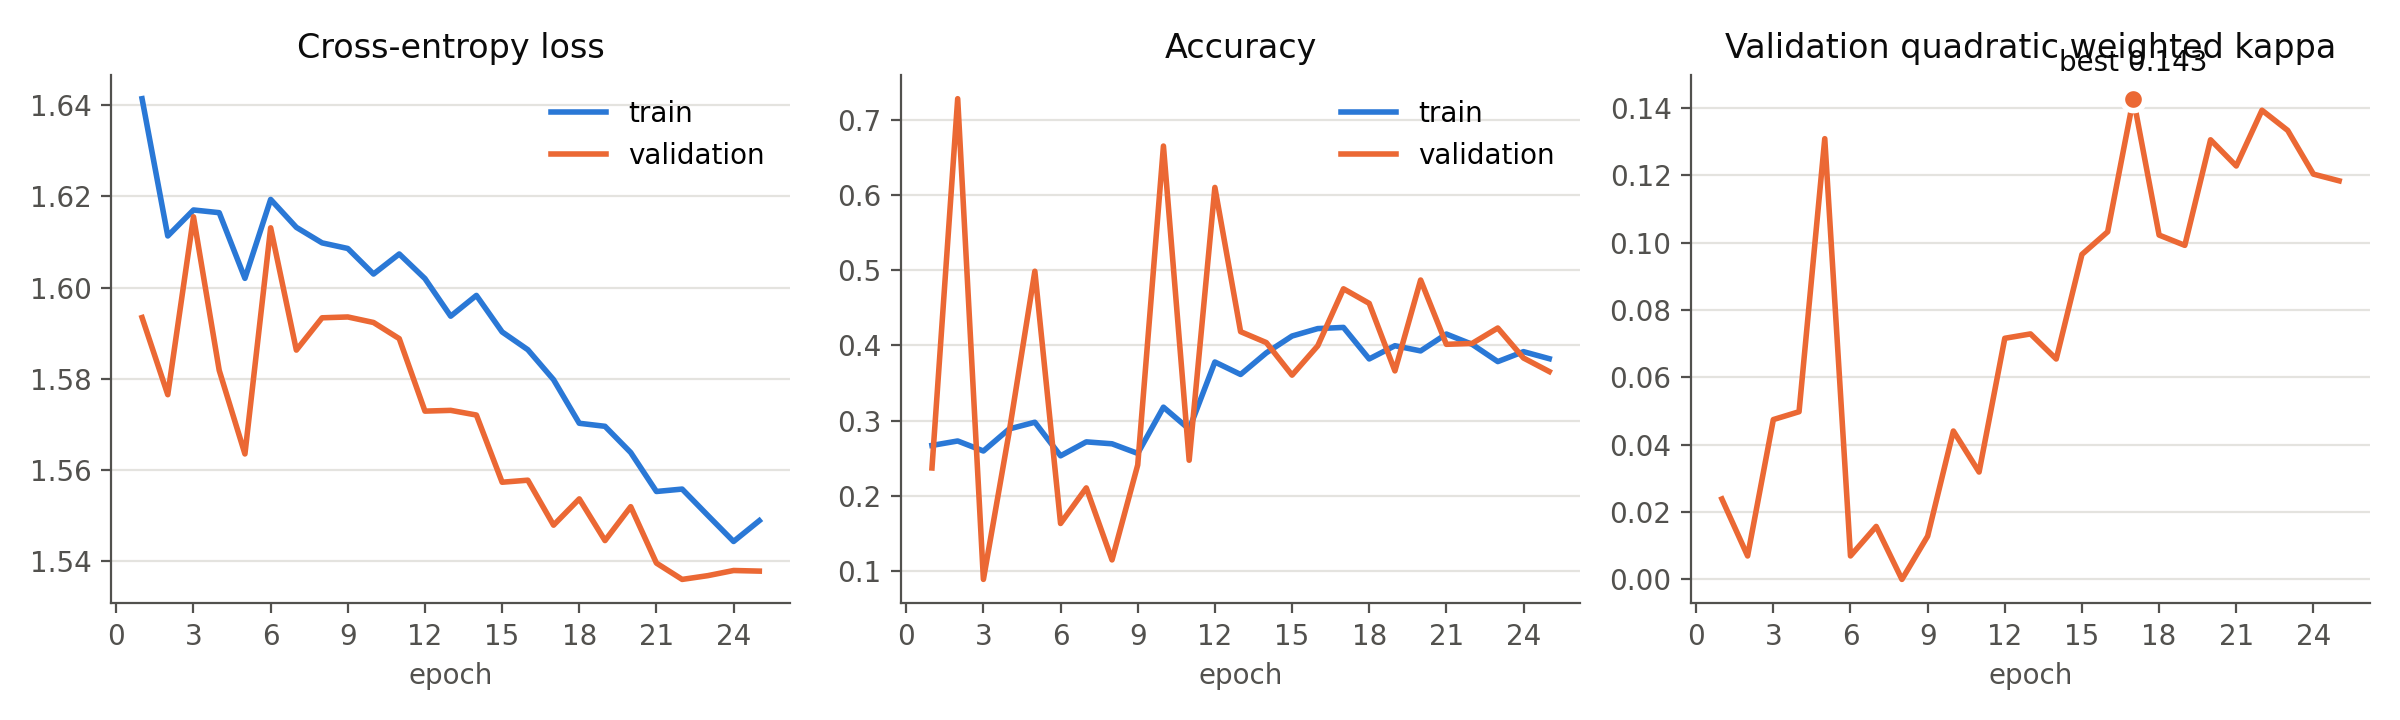
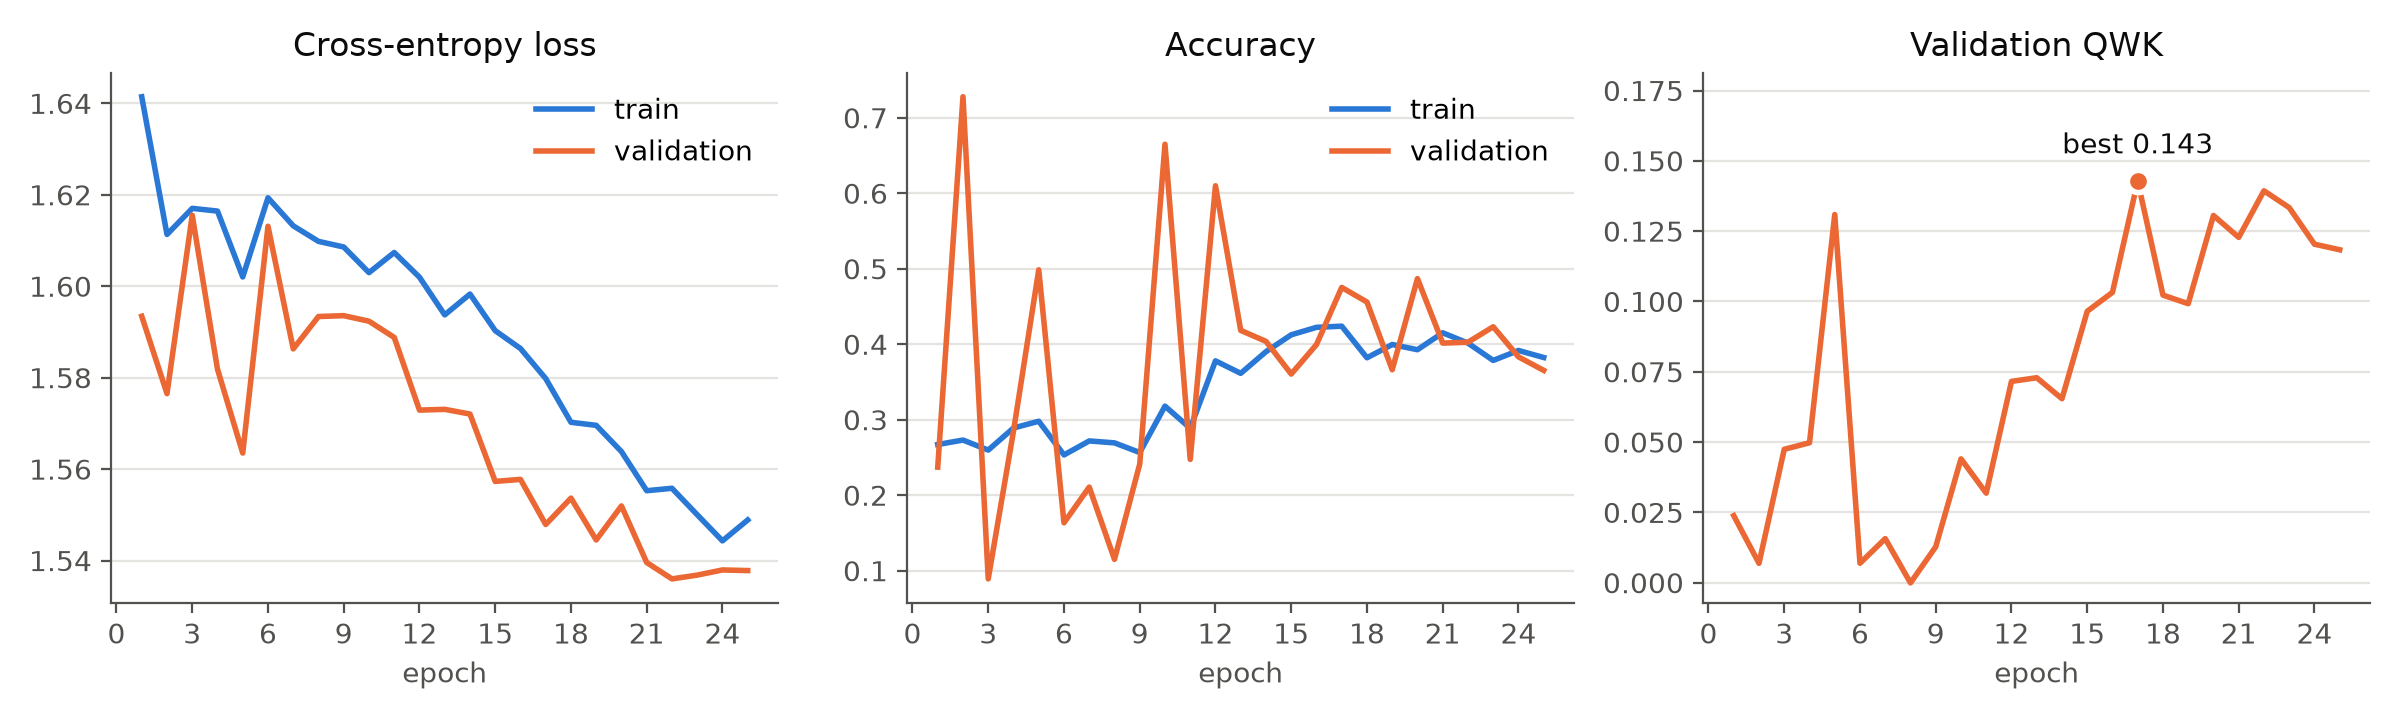
Fix figure placement and QWK plot label

diff --git a/report/main.tex b/report/main.tex
@@ -22,6 +22,7 @@
 \usepackage{algpseudocode}
 \usepackage[numbers]{natbib}
 \usepackage{xcolor}
+\usepackage[section]{placeins}  % keep figures inside their own section
 \usepackage[hidelinks]{hyperref}
 
 \graphicspath{{figures/}}
@@ -423,7 +424,7 @@ The checkpoint with the best validation QWK (epoch~17, QWK 0.143) is evaluated o
 on the EyePACS test split and on Messidor-2. All numbers are also stored in
 \texttt{results/results.json}.
 
-\begin{table}[h]
+\begin{table}[!htbp]
 \centering
 \caption{Results on the held-out EyePACS test split (in-domain) and on Messidor-2
 (external, never seen in training).}
@@ -442,7 +443,7 @@ Macro F1         & 0.212 & 0.184 \\
 \end{tabular}
 \end{table}
 
-\begin{table}[h]
+\begin{table}[!htbp]
 \centering
 \caption{Per-grade recall (share of each true grade that was predicted correctly).}
 \label{tab:recall}
@@ -459,7 +460,7 @@ Grade & EyePACS test & Messidor-2 \\
 \end{tabular}
 \end{table}
 
-\begin{figure}[h]
+\begin{figure}[!htbp]
 \centering
 \maybefigure{training_curves.png}{\textwidth}
 \caption{Convergence: training and validation loss and accuracy, and validation QWK
@@ -478,7 +479,7 @@ favouring one grade and another; it settles once the learning rate decays.
 Validation QWK rises from about 0.02 to a peak of 0.143 at epoch~17 and stays near
 0.12--0.14 afterwards.
 
-\begin{figure}[h]
+\begin{figure}[!htbp]
 \centering
 \maybefigure{confusion_eyepacs_test.png}{0.48\textwidth}\hfill
 \maybefigure{confusion_messidor2.png}{0.48\textwidth}
@@ -497,7 +498,7 @@ QWK penalises only mildly, which is why the kappa is positive despite the low
 accuracy. The class weights (0.27 for grade~0, 1.32 for grade~2) push the model
 away from the majority grade, trading accuracy for recall on the diseased grades.
 
-\begin{figure}[h]
+\begin{figure}[!htbp]
 \centering
 \maybefigure{examples_eyepacs_test.png}{\textwidth}\\[1ex]
 \maybefigure{examples_messidor2.png}{\textwidth}

diff --git a/eval/plots.py b/eval/plots.py
@@ -98,7 +98,10 @@ def plot_training_curves(log_csv, out_path):
     best_point = (epochs[best], log["val_qwk"][best])
     ax.annotate(f"best {best_point[1]:.3f}", best_point,
                 textcoords="offset points", xytext=(0, 10), ha="center", color=INK)
-    ax.set_title("Validation quadratic weighted kappa", color=INK)
+    #headroom so the label doesnt hit the title
+    low, high = ax.get_ylim()
+    ax.set_ylim(low, high + 0.2 * (high - low))
+    ax.set_title("Validation QWK", color=INK)
     ax.set_xlabel("epoch", color=INK_SECONDARY)
     _style_axis(ax)
 
